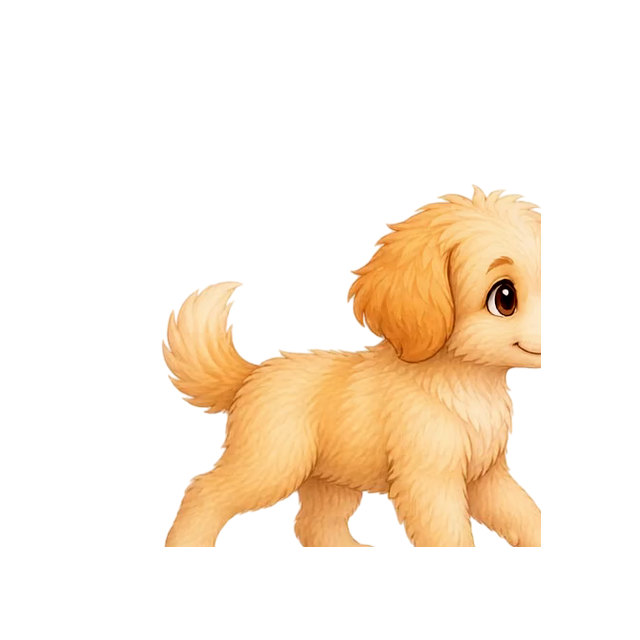
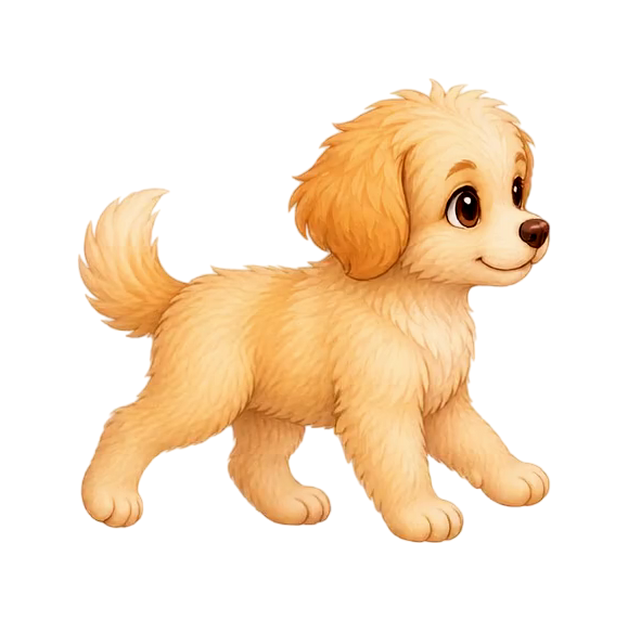
fix: 走路不在正中间——真凶=Meowa 按帧数选网格(8帧=3x3 非 4x4),按4列硬切全是碎片帧;工具升级投影间隙网格侦测(有槽用槽,无槽回退4等分);重导 8 帧居中(σ 50.8→15.5,残余=自然步幅),盲评每帧完整居中步态自然;1032 passed

diff --git a/tools/import_meowa_animation.py b/tools/import_meowa_animation.py
@@ -135,40 +135,45 @@ def main() -> int:
     args = parser.parse_args()
 
     sheet = Image.open(args.sheet)
-    cols = 4
-    cell_w = sheet.width // cols
-    cell_h = cell_w  # Meowa 精灵表恒为方格
-    # 自动侦测内容格（行序扫描，整行空即止——walk 类可能 15/16 格且尾格空）
-    cells = []
-    alpha_probe = np.asarray(sheet)[..., 3]
-    for row in range(sheet.height // cell_h):
-        row_cells = []
-        empty_row = True
-        for col in range(cols):
-            box = alpha_probe[row * cell_h:(row + 1) * cell_h,
-                              col * cell_w:(col + 1) * cell_w]
-            if int((box > 50).sum()) >= 1000:
-                empty_row = False
-                row_cells.append(sheet.crop(
-                    (col * cell_w, row * cell_h,
-                     (col + 1) * cell_w, (row + 1) * cell_h)
-                ))
-            else:
-                row_cells.append(None)
-        if empty_row and row_cells:
-            break
-        cells.extend(row_cells)
-    cells = [cell for cell in cells if cell is not None]
-    total = len(cells)
-    print(f"精灵表 {sheet.size} -> 格 {cell_w}x{cell_h}, 内容帧 {total}")
+    # 网格侦测（2026-10-07 walk 轮）：Meowa 按帧数选网格（16帧=4x4、8帧=3x3），
+    # 且格间有>20px 空白槽——按投影间隙切；无间隙（帧贴边）回退 4 等分。
+    def _bands(mask_axis, total, min_gap=20):
+        proj = mask_axis
+        gaps, in_gap = [], False
+        for x in range(total):
+            if proj[x] == 0 and not in_gap:
+                in_gap, start = True, x
+            elif proj[x] > 0 and in_gap:
+                in_gap = False
+                if x - start > min_gap:
+                    gaps.append((start, x))
+        if in_gap and total - start > min_gap:
+            gaps.append((start, total))
+        bands, cursor = [], 0
+        for g0, g1 in gaps:
+            if g0 - cursor > 40:
+                bands.append((cursor, g0))
+            cursor = g1
+        if total - cursor > 40:
+            bands.append((cursor, total))
+        return bands
 
-    cells = [
-        sheet.crop(
-            (i % cols * cell_w, i // cols * cell_h,
-             i % cols * cell_w + cell_w, i // cols * cell_h + cell_h)
-        )
-        for i in range(total)
-    ]
+    solid_probe = np.asarray(sheet)[..., 3] > 30
+    col_bands = _bands(solid_probe.sum(axis=0), sheet.width)
+    row_bands = _bands(solid_probe.sum(axis=1), sheet.height)
+    if len(col_bands) < 2 or len(row_bands) < 2:
+        # 无间隙：回退 4x4 等分（16 帧表相邻帧贴边无槽）
+        col_bands = [(c * sheet.width // 4, (c + 1) * sheet.width // 4) for c in range(4)]
+        row_bands = [(r * sheet.height // 4, (r + 1) * sheet.height // 4) for r in range(4)]
+    cells = []
+    for r0, r1 in row_bands:
+        for c0, c1 in col_bands:
+            box = solid_probe[r0:r1, c0:c1]
+            if int(box.sum()) >= 1000:
+                cells.append(sheet.crop((c0, r0, c1, r1)))
+    total = len(cells)
+    print(f"精灵表 {sheet.size} -> 网格 {len(col_bands)}x{len(row_bands)}, 内容帧 {total}")
+
     soft_boxes, solid_boxes, dog_boxes = [], [], []
     for cell in cells:
         arr = np.asarray(cell)
